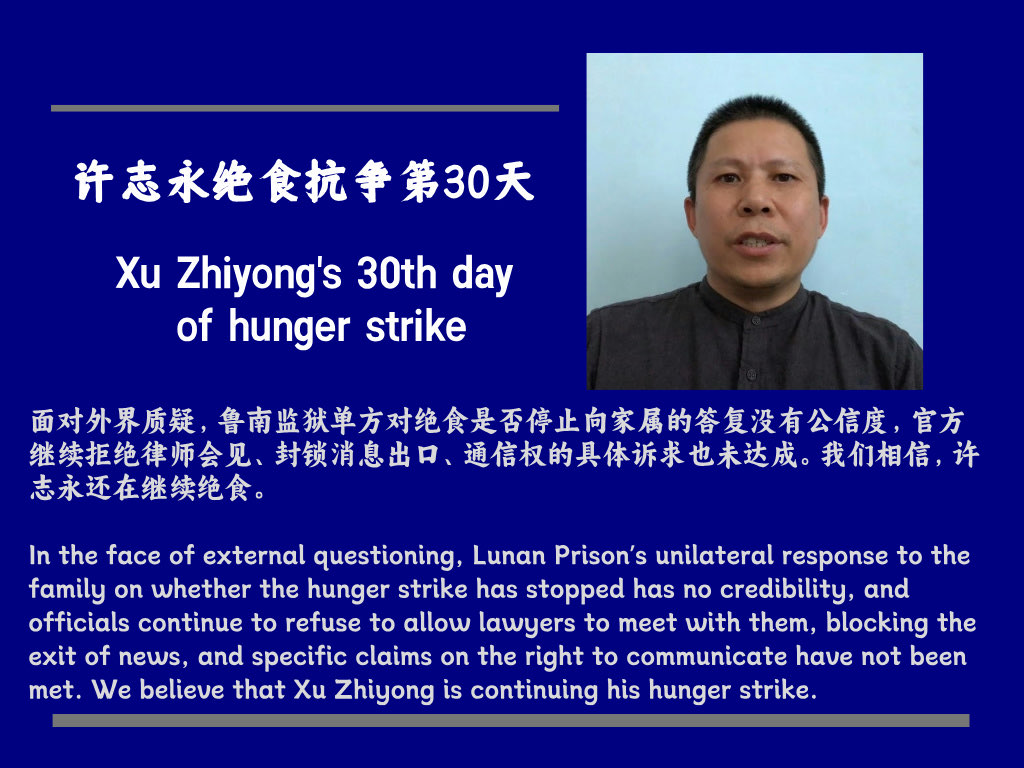
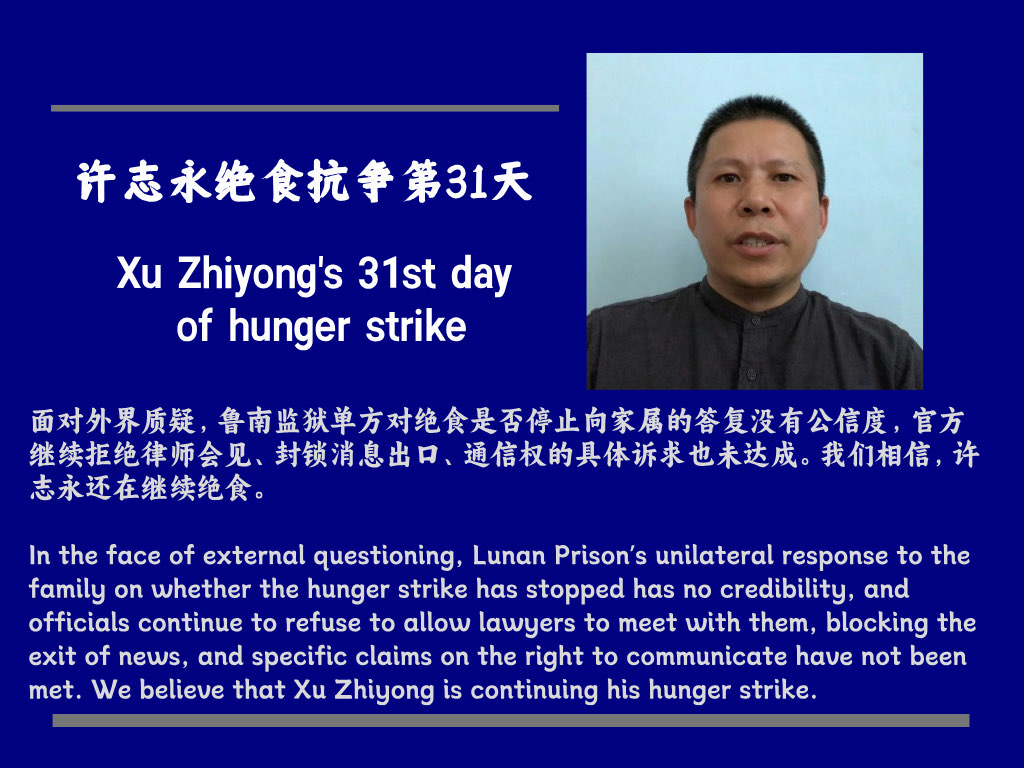
edit number

Changed region(s): [[0.0625, 0.1875, 0.5312, 0.2812], [0.0938, 0.3125, 0.5, 0.4062]]

diff --git a/_posts/2024-11-03-bulletin.md b/_posts/2024-11-03-bulletin.md
@@ -1,6 +1,6 @@
 ---
 layout: post
-title: 許志永抗爭絕食第30天，關注組聲明（2024.11.3）
+title: 許志永抗爭絕食第31天，關注組聲明（2024.11.3）
 date: 2024-11-03
 description: # Add post description (optional)
 img:  nov3.jpeg
@@ -11,7 +11,7 @@ tags: [Updates]
 首先非常感谢大家对于此次许志永绝食抗争事件的持续关注： 
 First of all, thank you very much for your continued attention to Xu Zhiyong's hunger strike:  
 
-截至11月3日，许志永已经持续绝食30天。我们可以确认的信息包括： 
+截至11月3日，许志永已经持续绝食31天。我们可以确认的信息包括： 
 As of November 3, Xu Zhiyong has been on hunger strike for 30 days. The information we can confirm includes: 
 
 1. 他绝食的唯一具体诉求“恢复与其未婚妻李翘楚的通信权”未被鲁南监狱批准； 
@@ -23,7 +23,9 @@ The authorities have repeatedly obstructed Xu Zhiyong, so that he has not been a
 3. 许志永虽于29日成功会见了家属，但家属遭到严重警告威胁，当日未敢对外联络。而之后的消息，不论是会见当日的“口头答应”，还是监狱单方面的反馈，都未能有公信力的确切证实许志永是否停止绝食。 
 Although Xu Zhiyong successfully met with his family on the 29th, his family was severely warned and threatened and did not dare to contact the outside world that day. The subsequent news, whether it was the "verbal agreement" on the day of the meeting or the unilateral feedback from the prison, failed to provide credible confirmation of whether Xu Zhiyong had stopped the hunger strike.
 
-4. 关注组相信，只要律师无法按程序会见，许志永便没有真实意愿表达的有效渠道；具体诉求的通信权尚未被保障，我们都有理由相信，许志永没有放弃绝食。希望国际社会和各界人士继续投入更多关注力量。 
+
+
+关注组相信，只要律师无法按程序会见，许志永便没有真实意愿表达的有效渠道；具体诉求的通信权尚未被保障，我们都有理由相信，许志永没有放弃绝食。希望国际社会和各界人士继续投入更多关注力量。 
 The concern group believes that as long as the lawyer cannot meet with him according to the procedure, Xu Zhiyong will have no effective channel to express his true will; the specific right to communicate has not been guaranteed, and we have reason to believe that Xu Zhiyong has not given up the hunger strike. We hope that the international community and people from all walks of life will continue to pay more attention.
 
 厦门聚会案关注组  
